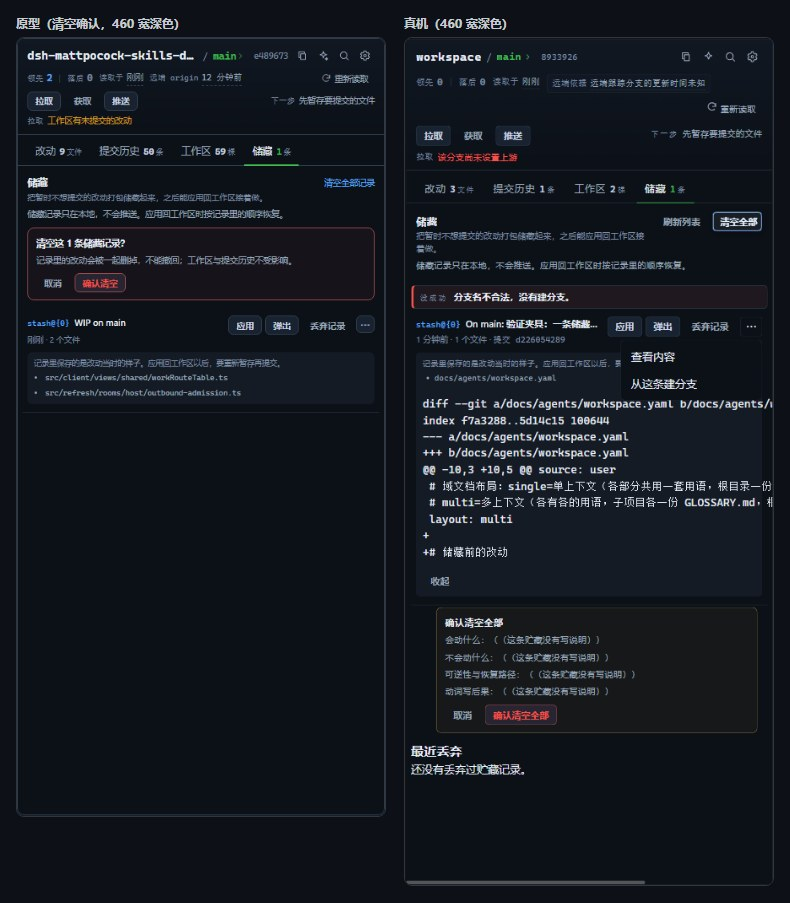
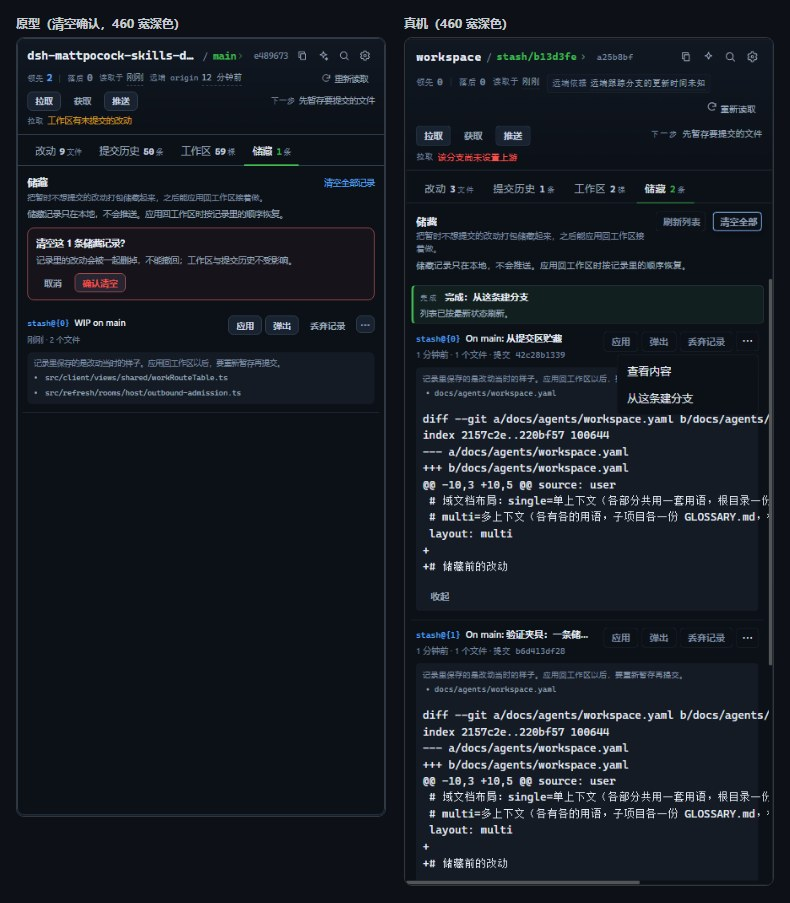
按真机最终一轮重出工作区页与储藏页的并排图，并把场景的动作链补全（#1904、#1905）
场景这一轮补的是「真点一遍」：新建（新建分支 / 已有分支 / 空目录错误 / 真建一棵并刷新看排序）、
稀疏检出（先全不勾验拒绝，再勾一个目录验保存后常驻当前规则）、移动（先拿被占用的目录验拒绝，
再换新目录验保存）、提交区三种收法（各自真的收一次，到储藏页确认并读结果条与记录数）、
记录行建分支（表单预填、确认后记录消失）、清空全部（确认后读「清掉 N 条记录」）。

并排图按最终一轮（深色 run 2026-11-06T14-19-05、浅色 run 2026-11-06T14-23-13）重出，
共 30 张：工作区页与储藏页各 6 张（300 / 380 / 460 × 深 / 浅），三张工作区表单 + 建完的结果
与四种储藏状态各 2 张（460 深 / 浅）。

diff --git a/verify/scenarios/1857-vc-pages.ts b/verify/scenarios/1857-vc-pages.ts
@@ -58,7 +58,8 @@ const PAGES = [
   //   「页签处于选中态 + 正文根对得上」，再各点一条本页特有的入口，证明这一页真的挂出来了。
   { id: 'changes', kind: 'tab', title: '改动', sections: [], need: ['[data-vc-stash-arrow]'] },
   { id: 'worktrees', kind: 'tab', title: '工作区', sections: [], need: ['[data-wt-create-open]', '[data-wt-action="expand"]'] },
-  { id: 'stash', kind: 'tab', title: '储藏', sections: [], need: ['[data-vc-stash-op="list"]', '[data-vc-stash-clear]', '[data-vc-stash-row-menu]'] },
+  // 储藏页只要求「刷新」这一颗常驻入口：记录行与清空按钮随记录有无而变，它们由 460 档的动作截图证明。
+  { id: 'stash', kind: 'tab', title: '储藏', sections: [], need: ['[data-vc-stash-op="list"]'] },
   { id: 'remote', kind: 'gear', title: '远端与同步', sections: [] },
   { id: 'config', kind: 'gear', title: '配置', sections: [] },
   { id: 'hooks', kind: 'gear', title: '钩子', sections: [] },
@@ -365,6 +366,16 @@ async function softClick(raw: RawBrowserPage, selector: string): Promise<boolean
 const WT_NEW_BASE = String(process.env.DSH_1857_WT_BASE || 'D:/temp/matt1857/fixture1904')
 // 每一趟跑都用新的目录与分支名：同名工作树第二次建会直接失败，而动作截图每趟都要真建一棵。
 const WT_RUN_TAG = String(Date.now()).slice(-6)
+/** 这一趟的夹具仓库目录（由 custom 步算出来写进来）：动作截图里要现场改文件。 */
+let FIXTURE_DIR = ''
+
+/** 关掉页底的结果条：下一次动作要看到「这一枪」的结果，不能被上一条挡住。 */
+async function clearResult(raw: RawBrowserPage): Promise<void> {
+  try {
+    const close = raw.page.locator('[data-wt-result-close]').first()
+    if (await close.count() > 0) { await close.click({ timeout: 4000 }); await sleep(250) }
+  } catch (error) { /* 没有结果条就算了 */ }
+}
 
 /** 读一个元素的文字（找不到就是空串）。 */
 async function textOf(page: PageHandle, selector: string): Promise<string> {
@@ -375,6 +386,7 @@ async function textOf(page: PageHandle, selector: string): Promise<string> {
 /** 移动表单：填新目录再保存，等结果条；返回是否出了结果与结果条上的字。 */
 async function saveMove(page: PageHandle, raw: RawBrowserPage, target: string): Promise<{ ok: boolean; problem: string | null; text: string }> {
   try {
+    await clearResult(raw)
     await raw.page.fill('[data-wt-move-input]', target)
     await sleep(200)
     const saved = await realClick(raw, '[data-wt-move-save]')
@@ -386,17 +398,81 @@ async function saveMove(page: PageHandle, raw: RawBrowserPage, target: string): 
   }
 }
 
-/** 稀疏检出：一个都不勾就点保存，看页面是否拒绝；返回结果条上的字与语气。 */
-async function saveSparse(page: PageHandle, raw: RawBrowserPage): Promise<{ ok: boolean; problem: string | null; text: string; tone: string }> {
+/** 稀疏检出：先把默认勾上的目录全部取消，一个都不勾再点保存，看页面是否拒绝；返回结果条上的字与语气。 */
+async function saveSparse(page: PageHandle, raw: RawBrowserPage): Promise<{ ok: boolean; problem: string | null; text: string; tone: string; unchecked: number }> {
   try {
+    await clearResult(raw)
+    let unchecked = 0
+    for (let i = 0; i < 40; i += 1) {
+      const on = raw.page.locator('[data-wt-sparse-dir][aria-pressed="true"]').first()
+      if (await on.count() === 0) break
+      await on.click({ timeout: 5000 })
+      unchecked += 1
+      await sleep(120)
+    }
     const saved = await realClick(raw, '[data-wt-sparse-save]')
     if (!saved.ok) return { ok: false, problem: '点保存失败：' + String(saved.problem), text: '', tone: '' }
     const shown = await waitForSelector(raw, '[data-wt-result]', 20000)
     const tone = await evaluateThrough<string>(page, '(function () { var el = document.querySelector("[data-wt-result]"); return el === null ? "" : String(el.getAttribute("data-wt-result") || "") })()')
-    return { ok: shown, problem: shown ? null : '保存后 20 秒内没有结果条', text: shown ? await textOf(page, '[data-wt-result-text]') : '', tone: tone.ok ? tone.value : '' }
+    return { ok: shown, problem: shown ? null : '保存后 20 秒内没有结果条', text: shown ? await textOf(page, '[data-wt-result-text]') : '', tone: tone.ok ? tone.value : '', unchecked: unchecked }
   } catch (error) {
     return { ok: false, problem: messageOf(error), text: '', tone: '' }
   }
+}
+
+/** 稀疏检出：勾上第一个候选目录再保存，返回结果条上的字；用来验「保存后展开行常驻当前规则」。 */
+async function saveSparseKeepOne(page: PageHandle, raw: RawBrowserPage): Promise<{ ok: boolean; problem: string | null; text: string; tone: string; rule: string }> {
+  try {
+    await clearResult(raw)
+    const first = raw.page.locator('[data-wt-sparse-dir]').first()
+    if (await first.count() === 0) return { ok: false, problem: '没有候选目录', text: '', tone: '', rule: '' }
+    await first.click({ timeout: 5000 })
+    await sleep(200)
+    const saved = await realClick(raw, '[data-wt-sparse-save]')
+    if (!saved.ok) return { ok: false, problem: '点保存失败：' + String(saved.problem), text: '', tone: '', rule: '' }
+    const shown = await waitForSelector(raw, '[data-wt-result]', 25000)
+    const tone = await evaluateThrough<string>(page, '(function () { var el = document.querySelector("[data-wt-result]"); return el === null ? "" : String(el.getAttribute("data-wt-result") || "") })()')
+    await sleep(600)
+    return { ok: shown, problem: shown ? null : '保存后 25 秒内没有结果条', text: shown ? await textOf(page, '[data-wt-result-text]') : '', tone: tone.ok ? tone.value : '', rule: await textOf(page, '[data-wt-sparse-current]') }
+  } catch (error) {
+    return { ok: false, problem: messageOf(error), text: '', tone: '', rule: '' }
+  }
+}
+
+/** 确保提交区的储藏菜单是开着的（截图前后菜单可能被收起）：看 hidden 属性，关着就点一次箭头。 */
+async function ensureStashMenu(raw: RawBrowserPage): Promise<boolean> {
+  try {
+    const probe = await raw.page.evaluate(function () {
+      const menu = document.querySelector('[data-vc-stash-menu]')
+      return menu === null ? 'missing' : (menu.hasAttribute('hidden') ? 'closed' : 'open')
+    })
+    if (probe === 'open') return true
+    if (probe === 'missing') return false
+    await realClick(raw, '[data-vc-stash-arrow]')
+    await sleep(400)
+    return true
+  } catch (error) {
+    return false
+  }
+}
+
+/** 到储藏页读结果条与记录数，再切回改动页：三种收法的结果只在储藏页画出来。 */
+async function stashOutcomeOf(page: PageHandle, raw: RawBrowserPage): Promise<{ text: string; tone: string; kind: string; records: number; confirmed: boolean }> {
+  await realClick(raw, '[data-vc-tab="stash"]')
+  await sleep(1400)
+  // 贮藏的写动作都走「先预检签票、再确认」：切到贮藏页时确认卡已经贴在那里，点确认才真的执行。
+  let confirmed = false
+  if (await waitForSelector(raw, '[data-vc-stash-confirm]', 3000)) {
+    confirmed = await softClick(raw, '[data-vc-stash-confirm-go]')
+    await sleep(3000)
+  }
+  const text = await textOf(page, '[data-vc-stash-result] .result-text')
+  const tone = await evaluateThrough<string>(page, '(function () { var el = document.querySelector("[data-vc-stash-result]"); return el === null ? "" : String(el.getAttribute("data-vc-stash-result") || "") })()')
+  const kind = await evaluateThrough<string>(page, '(function () { var el = document.querySelector("[data-vc-stash-fail-kind]"); return el === null ? "" : String(el.getAttribute("data-vc-stash-fail-kind") || "") })()')
+  const records = await raw.page.locator('[data-vc-stash-row-menu]').count()
+  await realClick(raw, '[data-vc-tab="changes"]')
+  await sleep(1400)
+  return { text: text, tone: tone.ok ? tone.value : '', kind: kind.ok ? kind.value : '', records: records, confirmed: confirmed }
 }
 
 /** 读当前工作区页上逐行的路径（按页面画的顺序）。 */
@@ -427,6 +503,19 @@ async function createWorktree(raw: RawBrowserPage, target: string, branch: strin
   } catch (error) {
     return { ok: false, problem: messageOf(error), rows: [] }
   }
+}
+
+/** 读按钮身上的 React 属性名，并装一个捕获阶段的点击记录：用来分清「点击没到处理函数」还是「处理函数跑了但状态没变」。 */
+async function instrumentButton(page: PageHandle, selector: string): Promise<Record<string, unknown>> {
+  const script = '(function () { var el = document.querySelector(' + JSON.stringify(selector) + '); window.__wtClicks = []; document.addEventListener("click", function (e) { window.__wtClicks.push({ tag: e.target.tagName, action: e.target.getAttribute ? e.target.getAttribute("data-wt-action") : null, prevented: e.defaultPrevented }); }, true); if (el === null) return { found: false }; var keys = Object.keys(el).filter(function (k) { return k.indexOf("__react") === 0 }); var out = { found: true, tag: el.tagName, html: String(el.outerHTML || "").slice(0, 200), keys: keys, props: [], onClickType: "none" }; for (var i = 0; i < keys.length; i += 1) { var v = el[keys[i]]; if (v && typeof v === "object") { out.props = Object.keys(v).slice(0, 25); out.onClickType = typeof v.onClick; } } return out })()'
+  const probe = await evaluateThrough<Record<string, unknown>>(page, script)
+  return probe.ok ? probe.value : { error: probe.message }
+}
+
+/** 读捕获阶段记到的点击序列。 */
+async function clickLogOf(page: PageHandle): Promise<unknown> {
+  const probe = await evaluateThrough<unknown>(page, 'window.__wtClicks || []')
+  return probe.ok ? probe.value : []
 }
 
 /** 行内表单没打开时留一份现场：表单节点数、展开着的行数、展开区里的文字。 */
@@ -518,37 +607,112 @@ async function captureActions(page: PageHandle, raw: RawBrowserPage, spec: any, 
     // 移动与稀疏检出挂在某一行上，而「新建的那一棵」刚被刷新到清单最前：按它的路径精确展开那一行，
     //   不要按「第一个展开箭头」碰运气（刷新之后第一个箭头可能落在当前工作区那张卡上）。
     if (createdOk) {
-      // 移动与稀疏检出的按钮 op 是 move-open / sparse-open（vcWorktreesView 的 vcWtFormOpenButtonNode）。
-      const moveOpened = await openFirstRowForm(raw, 'move-open', '[data-wt-move-input]', 12000)
-      facts['moveOpened:' + spec.id + ':' + skin.id + ':' + width] = moveOpened
-      facts['moveProbe:' + spec.id + ':' + skin.id + ':' + width] = await probeRowState(page)
-      if (moveOpened) {
-        await shot('move')
-        const movedTarget = WT_NEW_BASE + '/wt-moved-' + skin.id + '-' + width + '-' + WT_RUN_TAG
-        const moved = await saveMove(page, raw, movedTarget)
-        facts['moveProbe:' + spec.id + ':' + skin.id + ':' + width] = await probeRowState(page)
-        facts['move:' + spec.id + ':' + skin.id + ':' + width] = moved
-        if (moved.ok) await shot('moved')
-        await softClick(raw, '[data-wt-move-close]')
-      }
-      // 稀疏检出的面板打开时会先发一次预检，预检回来之前只有一行「读取中」——要等保存键出现再动手。
+      // 先稀疏检出、后移动：移动会把这一行换成新路径，之后再点稀疏检出，面板拿到的是刚搬过的那一棵，
+      //   两件事挤在一起时分不清是哪个坏了（第一轮就是这么把稀疏检出判成「打不开」的）。
+      facts['sparseBtn:' + spec.id + ':' + skin.id + ':' + width] = await instrumentButton(page, '[data-wt-expandable] [data-wt-action="sparse-open"]')
       const sparseOpened = await openFirstRowForm(raw, 'sparse-open', '[data-wt-sparse-save]', 30000)
       facts['sparseOpened:' + spec.id + ':' + skin.id + ':' + width] = sparseOpened
+      facts['sparseClicks:' + spec.id + ':' + skin.id + ':' + width] = await clickLogOf(page)
       if (sparseOpened) {
         await shot('sparse')
         const refused = await saveSparse(page, raw)
         facts['sparse:' + spec.id + ':' + skin.id + ':' + width] = refused
         await shot('sparse-refused')
+        // 拒绝之后勾一个目录再保存：验「保存后展开行常驻当前规则」这一条。
+        const kept = await saveSparseKeepOne(page, raw)
+        facts['sparseSaved:' + spec.id + ':' + skin.id + ':' + width] = kept
+        if (kept.ok) await shot('sparse-saved')
         await softClick(raw, '[data-wt-sparse-close]')
+      } else {
+        facts['sparseProbe:' + spec.id + ':' + skin.id + ':' + width] = await probeRowState(page)
+        facts['sparseResult:' + spec.id + ':' + skin.id + ':' + width] = await textOf(page, '[data-wt-result-text]')
+      }
+      // 移动与稀疏检出的按钮 op 是 move-open / sparse-open（vcWorktreesView 的 vcWtFormOpenButtonNode）。
+      facts['btnProbe:' + spec.id + ':' + skin.id + ':' + width] = await instrumentButton(page, '[data-wt-expandable] [data-wt-action="move-open"]')
+      const moveOpened = await openFirstRowForm(raw, 'move-open', '[data-wt-move-input]', 12000)
+      facts['moveOpened:' + spec.id + ':' + skin.id + ':' + width] = moveOpened
+      facts['moveClicks:' + spec.id + ':' + skin.id + ':' + width] = await clickLogOf(page)
+      if (moveOpened) {
+        await shot('move')
+        // 先拿一个「已经被别的工作区占着」的目录试一次：要明确拒绝，不能假装移动成功。
+        const others = (await readWorktreeRows(raw)).filter(function (p) { return p !== target })
+        if (others.length > 0) {
+          const occupied = await saveMove(page, raw, others[0])
+          facts['moveOccupied:' + spec.id + ':' + skin.id + ':' + width] = occupied
+          await shot('move-occupied')
+        }
+        const movedTarget = WT_NEW_BASE + '/wt-moved-' + skin.id + '-' + width + '-' + WT_RUN_TAG
+        const moved = await saveMove(page, raw, movedTarget)
+        facts['move:' + spec.id + ':' + skin.id + ':' + width] = moved
+        if (moved.ok) await shot('moved')
+        await softClick(raw, '[data-wt-move-close]')
       }
     }
   }
   if (spec.id === 'changes') {
-    if (await softClick(raw, '[data-vc-stash-arrow]')) { await shot('variants'); await softClick(raw, '[data-vc-stash-arrow]') }
+    if (await softClick(raw, '[data-vc-stash-arrow]')) {
+      await shot('variants')
+      // 截图会把视口临时拉高再还原：菜单可能因此收起，点收法之前先确认它是开着的。
+      await ensureStashMenu(raw)
+      // 默认收法：只收已跟踪的改动。收完到储藏页看结果条与记录数，再回来造一个新文件试「连未跟踪一起收」。
+      await softClick(raw, '[data-vc-stash-variant="push"]')
+      await sleep(2500)
+      facts['stashPush:' + spec.id + ':' + skin.id + ':' + width] = await stashOutcomeOf(page, raw)
+      try { fs.writeFileSync(path.join(FIXTURE_DIR, 'untracked-1905.txt'), 'x' + String(Date.now()) + '\n', 'utf8') } catch (error) { facts['stashWriteProblem:' + skin.id] = messageOf(error) }
+      await sleep(1200)
+      await ensureStashMenu(raw)
+      await softClick(raw, '[data-vc-stash-variant="push-untracked"]')
+      await sleep(2500)
+      facts['stashUntracked:' + spec.id + ':' + skin.id + ':' + width] = await stashOutcomeOf(page, raw)
+    }
   }
   if (spec.id === 'stash') {
-    if (await softClick(raw, '[data-vc-stash-row-menu] summary')) { await shot('row-menu'); await softClick(raw, '[data-vc-stash-op="branch"]'); await shot('branch-form') }
-    if (await softClick(raw, '[data-vc-stash-clear]')) { await shot('clear-confirm'); await softClick(raw, '[data-vc-stash-confirm-cancel]') }
+    const rowCount = async (): Promise<number> => raw.page.locator('[data-vc-stash-row-menu]').count()
+    if (await softClick(raw, '[data-vc-stash-row-menu] summary')) {
+      await shot('row-menu')
+      await softClick(raw, '[data-vc-stash-op="branch"]')
+      await shot('branch-form')
+      const before = await rowCount()
+      const formOpen = await waitForSelector(raw, '[data-vc-stash-branch-box]', 8000)
+      let prefilled = ''
+      if (formOpen) {
+        prefilled = await raw.page.locator('[data-vc-stash-branch-input]').first().inputValue().catch(function () { return '' })
+        if (prefilled === '') {
+          try { await raw.page.fill('[data-vc-stash-branch-input]', 'ticket/1905-from-stash') } catch (error) { prefilled = 'fill-failed:' + messageOf(error) }
+        }
+        await softClick(raw, '[data-vc-stash-branch-go]')
+        // 建分支是写动作：先预检签票、再出确认卡，点确认才执行。
+        if (await waitForSelector(raw, '[data-vc-stash-confirm]', 8000)) {
+          facts['stashBranchConfirm:' + skin.id] = true
+          await softClick(raw, '[data-vc-stash-confirm-go]')
+          await sleep(3500)
+        }
+      }
+      await sleep(3000)
+      facts['stashBranch:' + spec.id + ':' + skin.id + ':' + width] = {
+        formOpen: formOpen,
+        prefilled: prefilled,
+        text: await textOf(page, '[data-vc-stash-result] .result-text'),
+        before: before,
+        after: await rowCount(),
+      }
+    }
+    if (await softClick(raw, '[data-vc-stash-clear]')) {
+      await shot('clear-confirm')
+      const before = await rowCount()
+      await softClick(raw, '[data-vc-stash-confirm-go]')
+      await sleep(3500)
+      const droppedText = await textOf(page, '[data-vc-stash-dropped]')
+      // 清完列表要重读一次才画得出来：点一下标题行的刷新，再数一遍。
+      await softClick(raw, '[data-vc-stash-op="list"]')
+      await sleep(2000)
+      facts['stashClear:' + spec.id + ':' + skin.id + ':' + width] = {
+        text: await textOf(page, '[data-vc-stash-result] .result-text'),
+        dropped: droppedText,
+        before: before,
+        after: await rowCount(),
+      }
+    }
   }
   facts['actions:' + spec.id + ':' + skin.id + ':' + width] = shots
 }
@@ -724,6 +888,7 @@ export default defineScenario<ScenarioContext>({
         //     其它工作树、一条储藏记录、一个已暂存文件与一个未暂存文件。只改这一趟的实例目录，不碰仓库。
         const seededDir = path.join(String((instance.record as any).dir || ''), 'workspace')
         const fixtureDir = String(process.env.DSH_1857_REPO || seededDir)
+        FIXTURE_DIR = fixtureDir
         const fixture: Record<string, unknown> = { dir: fixtureDir, steps: [] as string[] }
         try {
           const git = function (args: string[]): string { return execFileSync('git', args, { cwd: fixtureDir, encoding: 'utf8' }) }
@@ -909,7 +1074,12 @@ export default defineScenario<ScenarioContext>({
                   ? state.selectedTab === spec.id
                   : state.headTitle !== null && state.headTitle.indexOf(spec.title) >= 0)
               // 每页各点一条本页特有的入口：页签能选中不代表这一页真的挂出了正文。
-              const needMissing = state === null ? [] : await missingSelectors(page, spec.need === undefined ? [] : spec.need)
+              // 页面刚切过去时列表还没画出来：本页入口要等一会儿再判，不然会把「还没画」当成「没有」。
+              let needMissing = state === null ? [] : await missingSelectors(page, spec.need === undefined ? [] : spec.need)
+              for (let attempt = 0; attempt < 50 && needMissing.length > 0; attempt += 1) {
+                await sleep(400)
+                needMissing = await missingSelectors(page, spec.need === undefined ? [] : spec.need)
+              }
               const overflow = state === null ? true : (state.docScrollWidth > state.innerWidth + 1 || state.maxRight > state.rootRight + 1)
               const capFree = state !== null && state.capPrimaries === 0
               const foldFree = state === null ? true : state.folds.every(function (f) { return !/能力|capabilit/i.test(f) })
